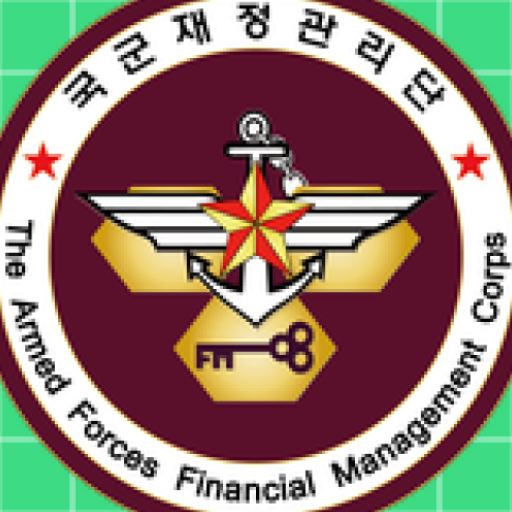
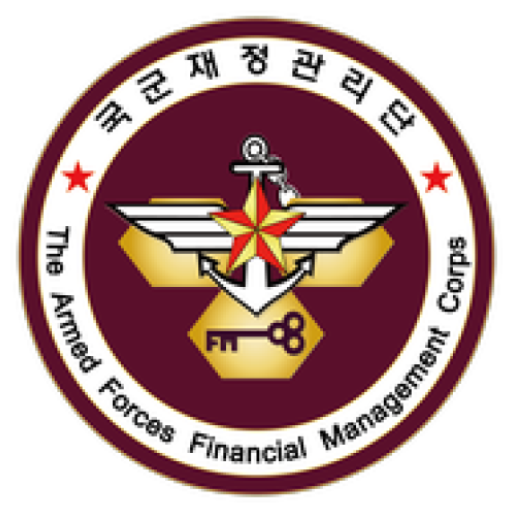
1. 앱 아이콘 수정 2. 앱아이언 파일 교체

diff --git a/app/src/main/java/com/aiicon/market/workathome/WebViewActivity.java b/app/src/main/java/com/aiicon/market/workathome/WebViewActivity.java
@@ -42,6 +42,7 @@ import android.webkit.WebView;
 import android.webkit.WebViewClient;
 import android.widget.ImageView;
 import android.widget.Toast;
+import android.window.SplashScreen;
 
 import com.raonsecure.appironlib.AppIronManager;
 import com.raonsecure.appironlib.error.AppIronError;
@@ -301,10 +302,10 @@ public class WebViewActivity extends AppCompatActivity {
         });
 
         // url load
-//        webView.loadUrl("http://dpis.mnd.go.kr:8090");
+        webView.loadUrl("http://dpis.mnd.go.kr:8090/indexDv.do");
 //        webView.loadUrl("https://www.kafb2b.or.kr");
 
-        webView.loadUrl("file:///android_asset/test/test.html");
+//        webView.loadUrl("file:///android_asset/test/test.html");
 
         new AlertDialog.Builder(webView.getContext())
                 .setTitle("알림")
@@ -321,16 +322,16 @@ public class WebViewActivity extends AppCompatActivity {
         webView.addJavascriptInterface(new WebAppInterface(this), "Android");
 
         // 앱 위변조 검증 요청
-//        try {
-//            new AppIronManager()
-//                    .setActivity(WebViewActivity.this)
-//                    .setCallbackListener(mAppIronListener)
-//                    .setDomain(mServerAddress)
-//                    .setUserValue("id: raon")
-//                    .start();
-//        } catch (AppIronException e) {
-//            Toast.makeText(WebViewActivity.this, ""+e.getErrorMessage(), Toast.LENGTH_SHORT).show();
-//        }
+        try {
+            new AppIronManager()
+                    .setActivity(WebViewActivity.this)
+                    .setCallbackListener(mAppIronListener)
+                    .setDomain(mServerAddress)
+                    .setUserValue("id: raon")
+                    .start();
+        } catch (AppIronException e) {
+            Toast.makeText(WebViewActivity.this, ""+e.getErrorMessage(), Toast.LENGTH_SHORT).show();
+        }
     }
 
     // region AppIron
